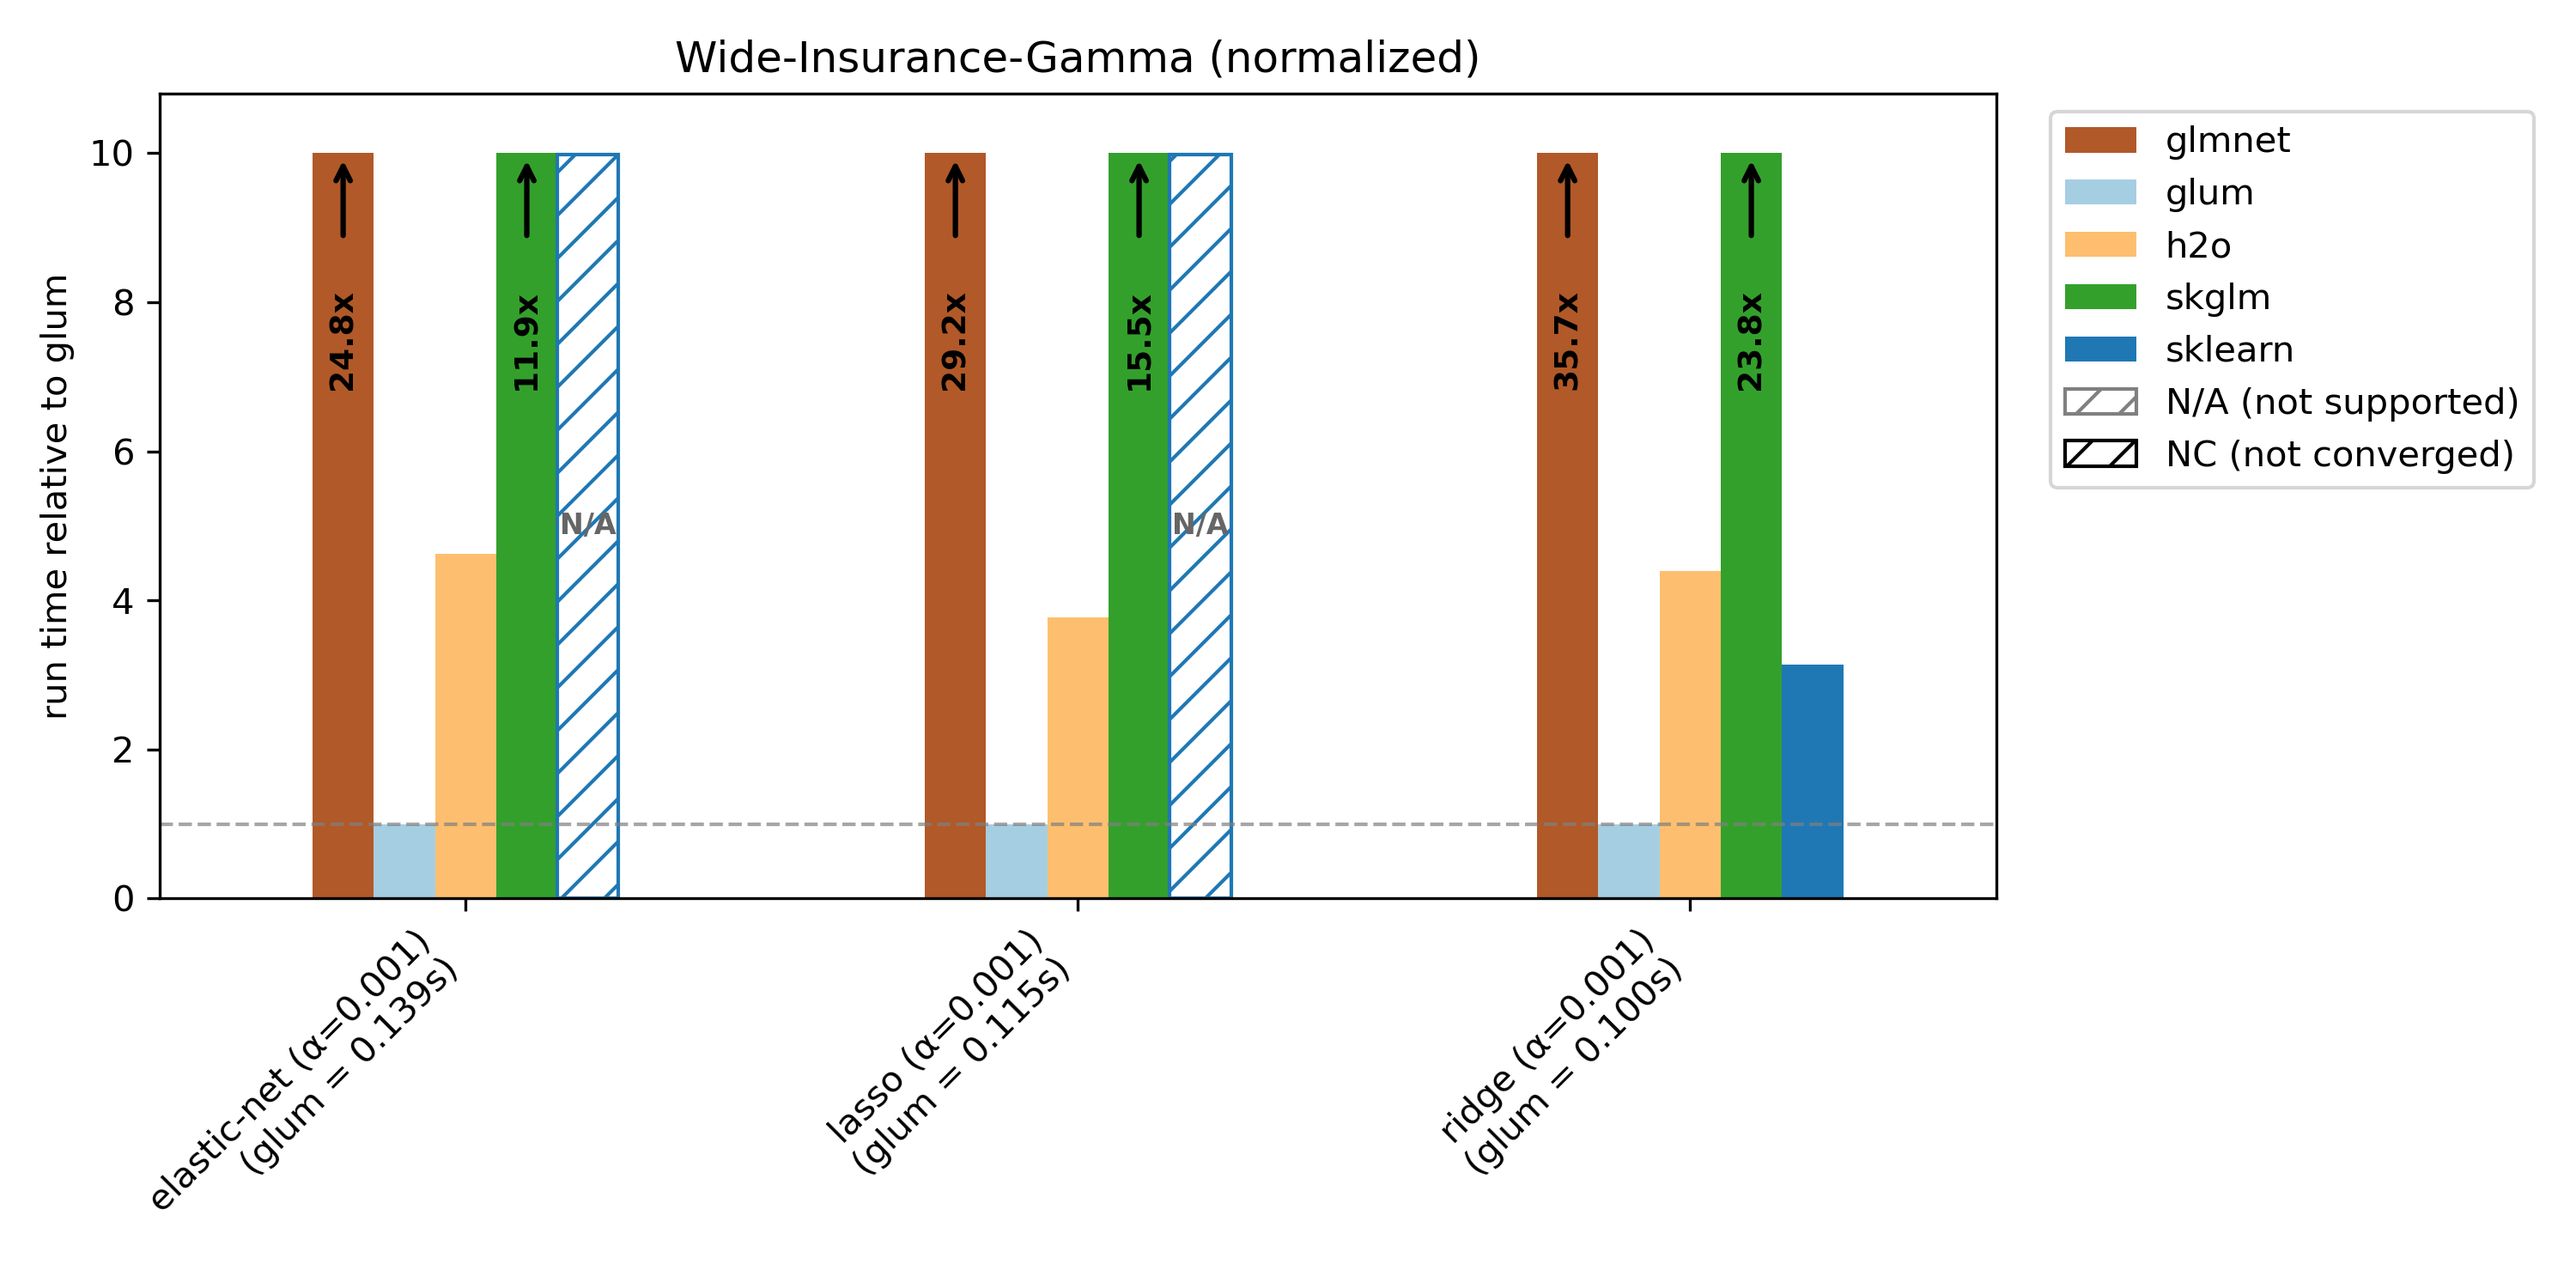
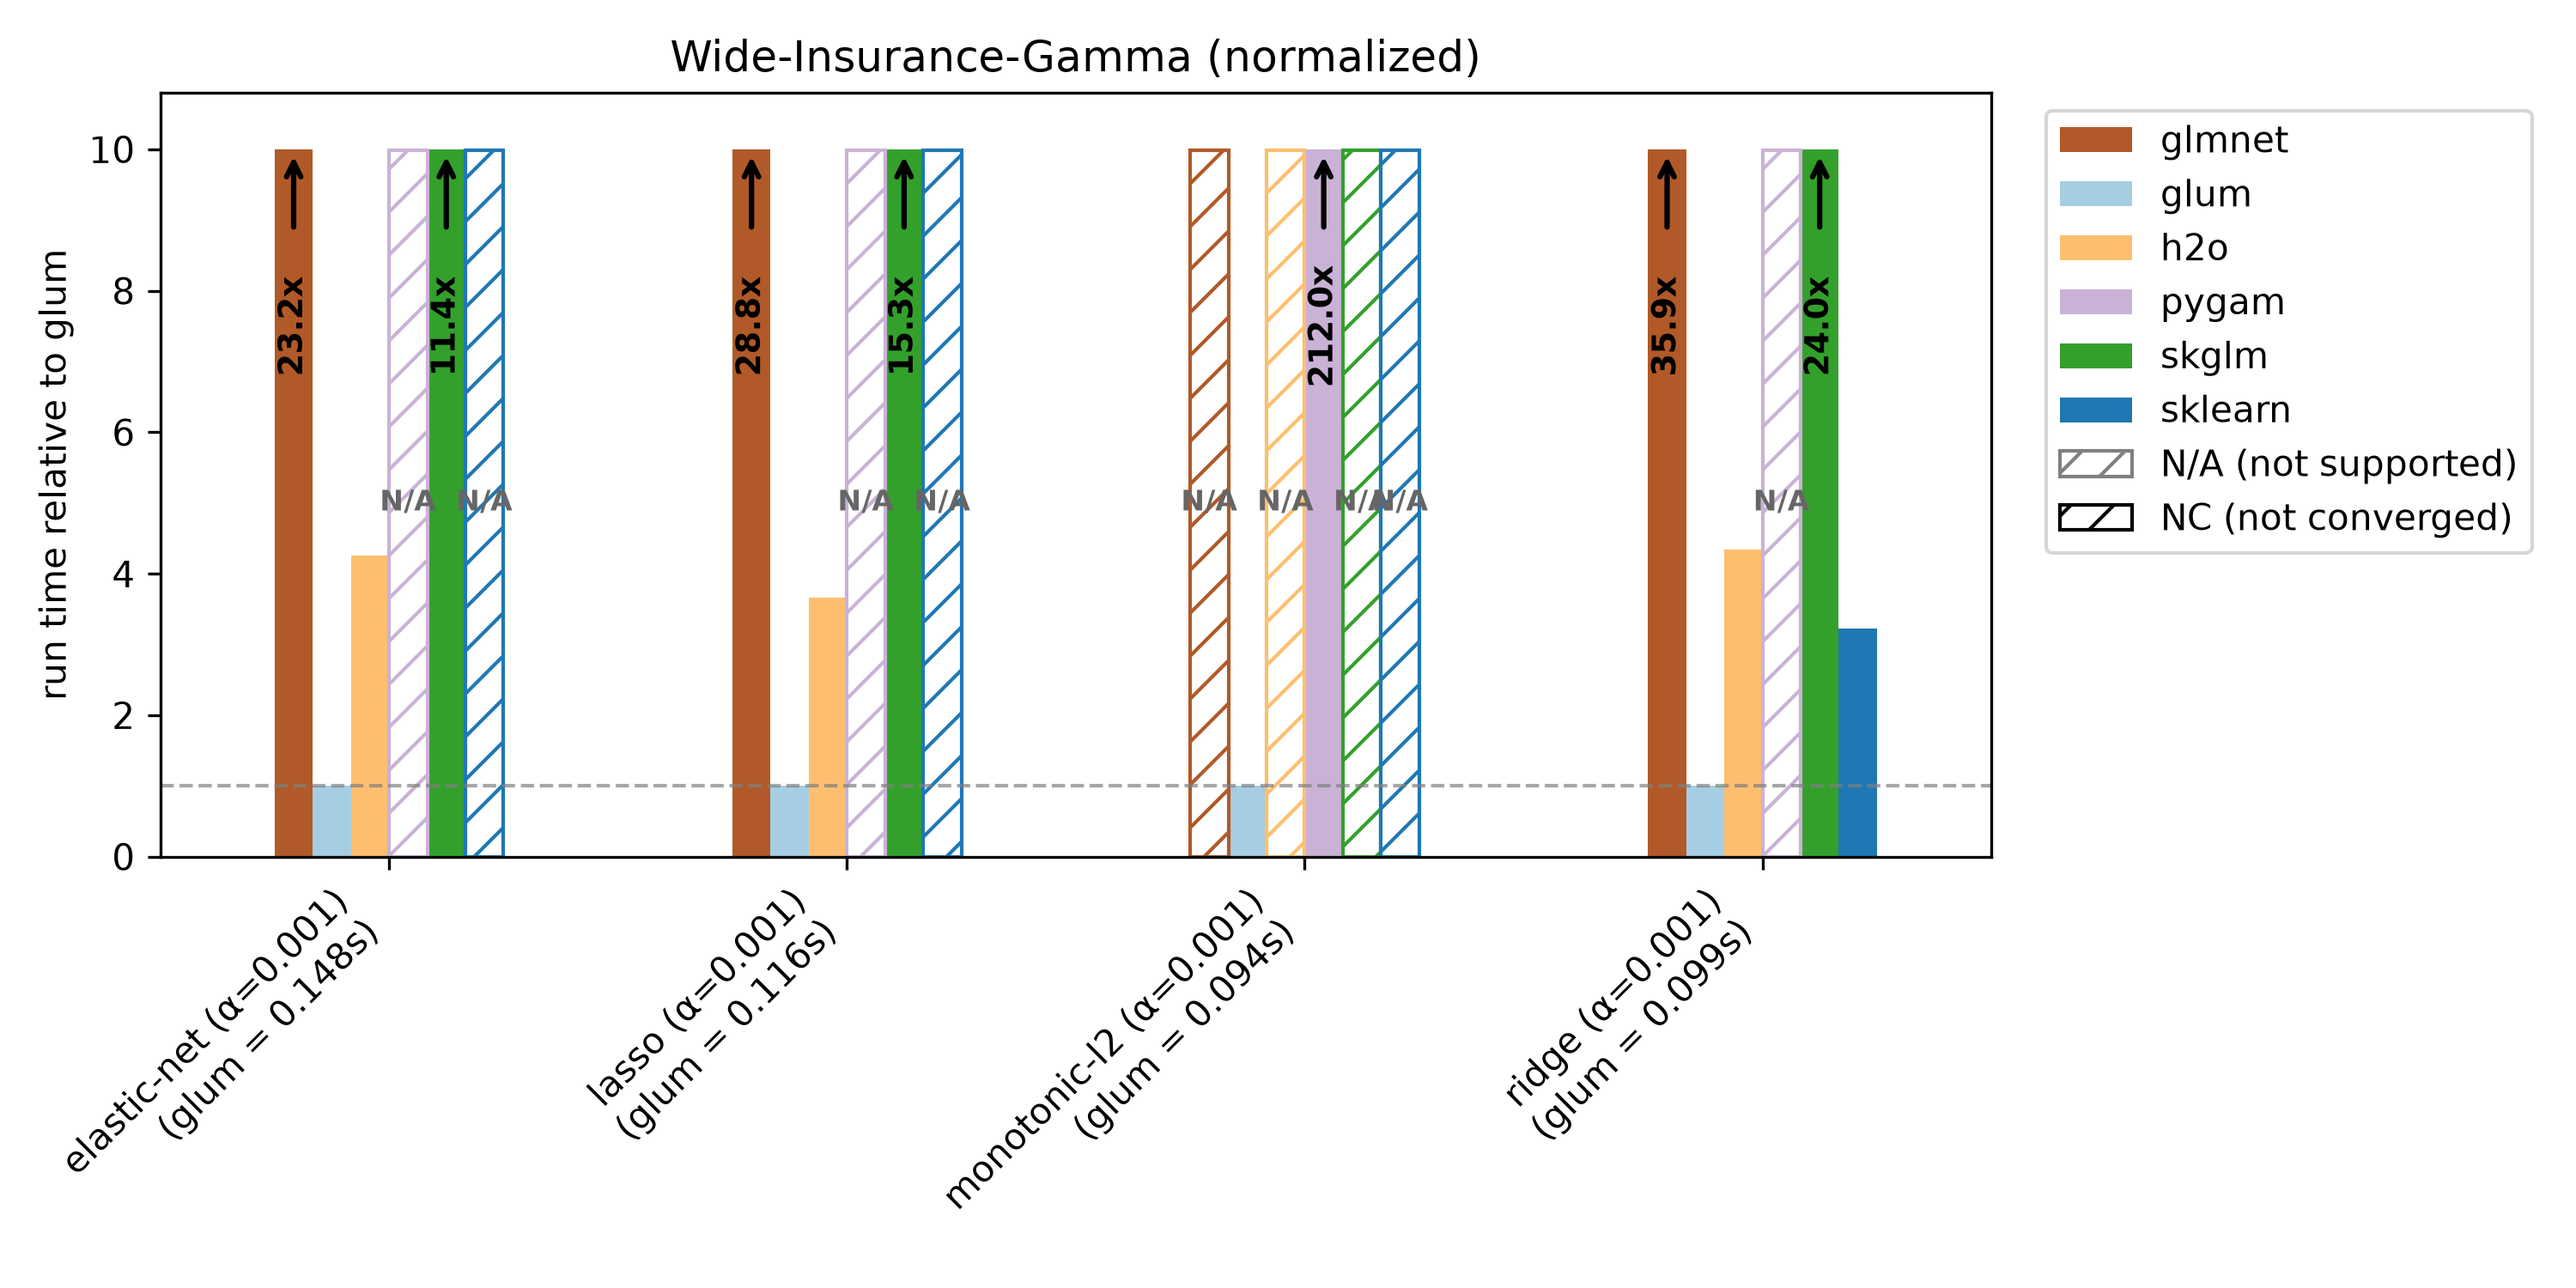
Update benchmarks for the latest coordinate descent speed-ups
Rerun the docs benchmark suite on current main (includes #1035 and #1036),
and fix two benchmark setup issues found along the way:

- bench_glum: use bs() instead of cr() in the monotonic formula, since glum
  no longer accepts cr() splines with monotonic_constraints.
- bench_glmnet: install the tweedie and statmod R packages from CRAN if
  missing (r-tweedie has no osx-arm64 build on conda-forge); declare
  r-statmod in pixi.toml.

Regenerate results.csv, the docs figures and the monotonic figure.

diff --git a/glum_benchmarks/libraries/bench_glmnet.py b/glum_benchmarks/libraries/bench_glmnet.py
@@ -22,10 +22,17 @@ def _setup_and_fit(X_np, y, distribution, l1_ratio, alpha):
     from rpy2.robjects.packages import importr
     from rpy2.robjects.vectors import FloatVector, IntVector
 
-    # Packages must be pre-installed. Fail fast if missing.
+    # glmnet and Matrix must be pre-installed. Fail fast if missing.
     # Use suppressPackageStartupMessages to avoid noisy loading messages.
     required_pkgs = ["glmnet", "Matrix"]
     if distribution.startswith("tweedie"):
+        # `tweedie` has no osx-arm64 build on conda-forge, so install it (and
+        # `statmod`) from CRAN if the environment doesn't provide it.
+        for pkg in ["tweedie", "statmod"]:
+            ro.r(
+                f'if (!requireNamespace("{pkg}", quietly = TRUE)) '
+                f'install.packages("{pkg}", repos = "https://cloud.r-project.org")'
+            )
         required_pkgs += ["tweedie", "statmod"]
     for pkg in required_pkgs:
         ro.r(f'suppressPackageStartupMessages(library("{pkg}"))')

diff --git a/glum_benchmarks/libraries/bench_glum.py b/glum_benchmarks/libraries/bench_glum.py
@@ -20,7 +20,7 @@ def _build_and_fit(model_args, fit_args):
 
 
 MONOTONIC_FORMULA = (
-    "y ~ cr(BonusMalus, df=10)"
+    "y ~ bs(BonusMalus, df=10)"
     " + C(VehPower) + C(VehAge) + C(DrivAge)"
     " + C(VehBrand) + C(VehGas) + C(Region) + C(Area)"
     " + Density_log"
